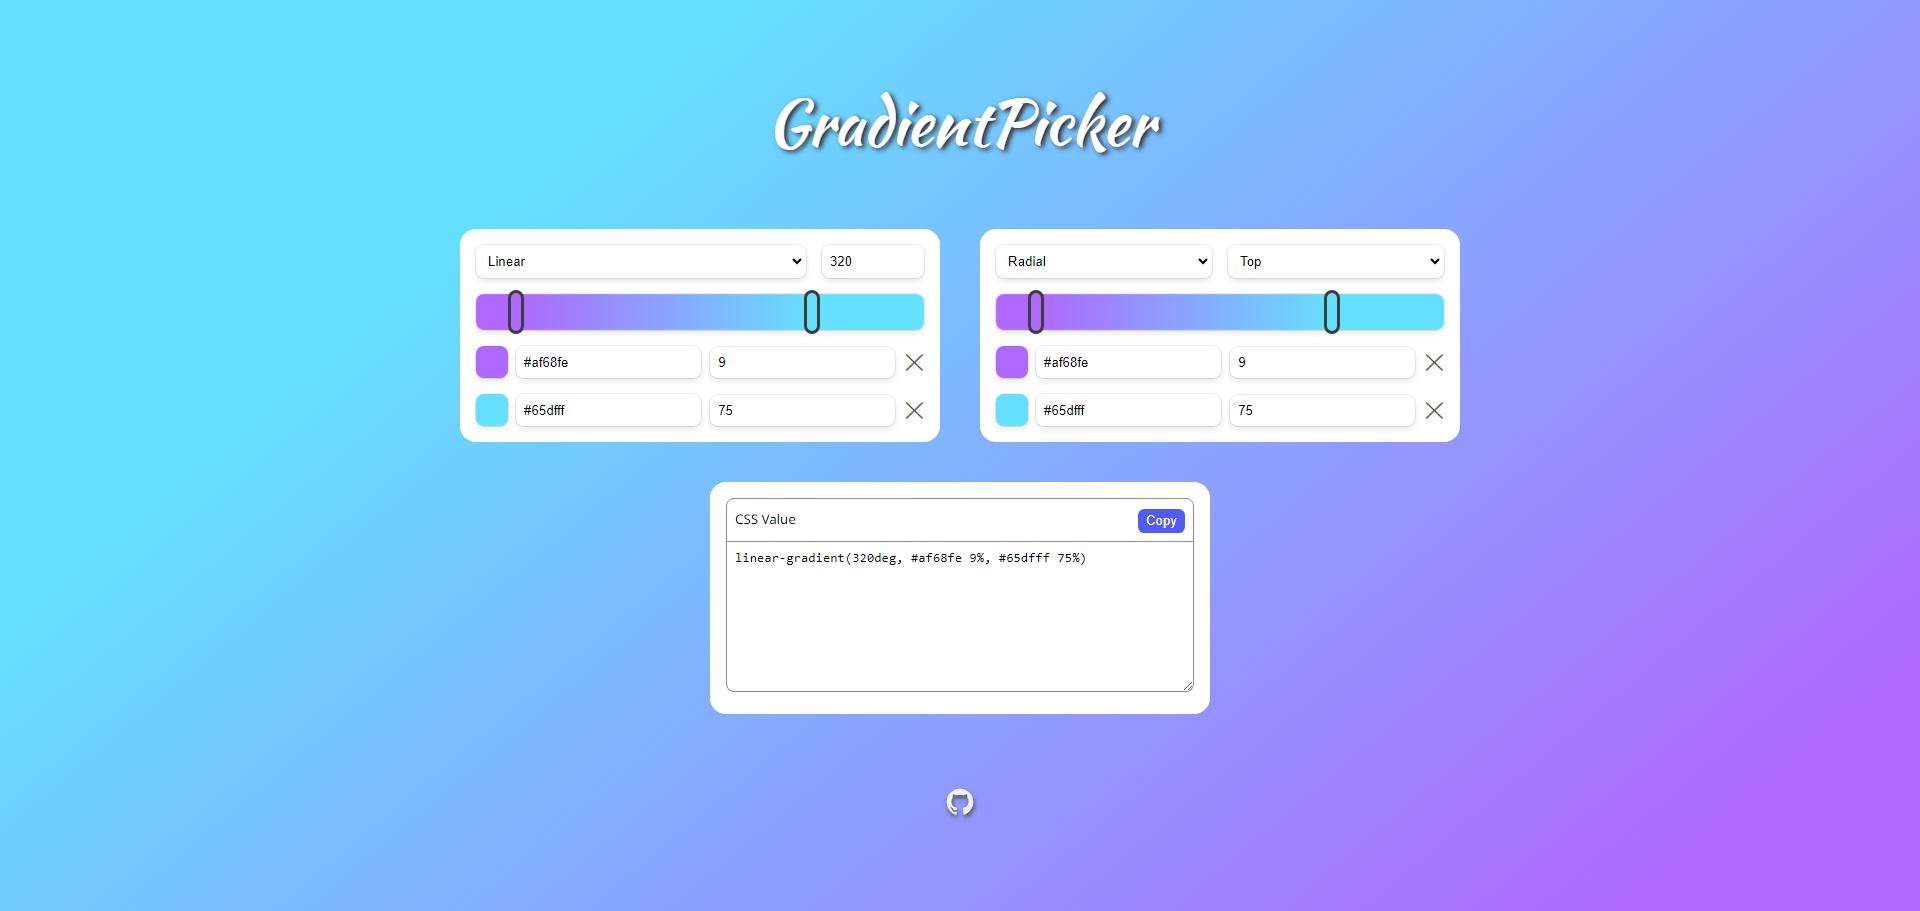
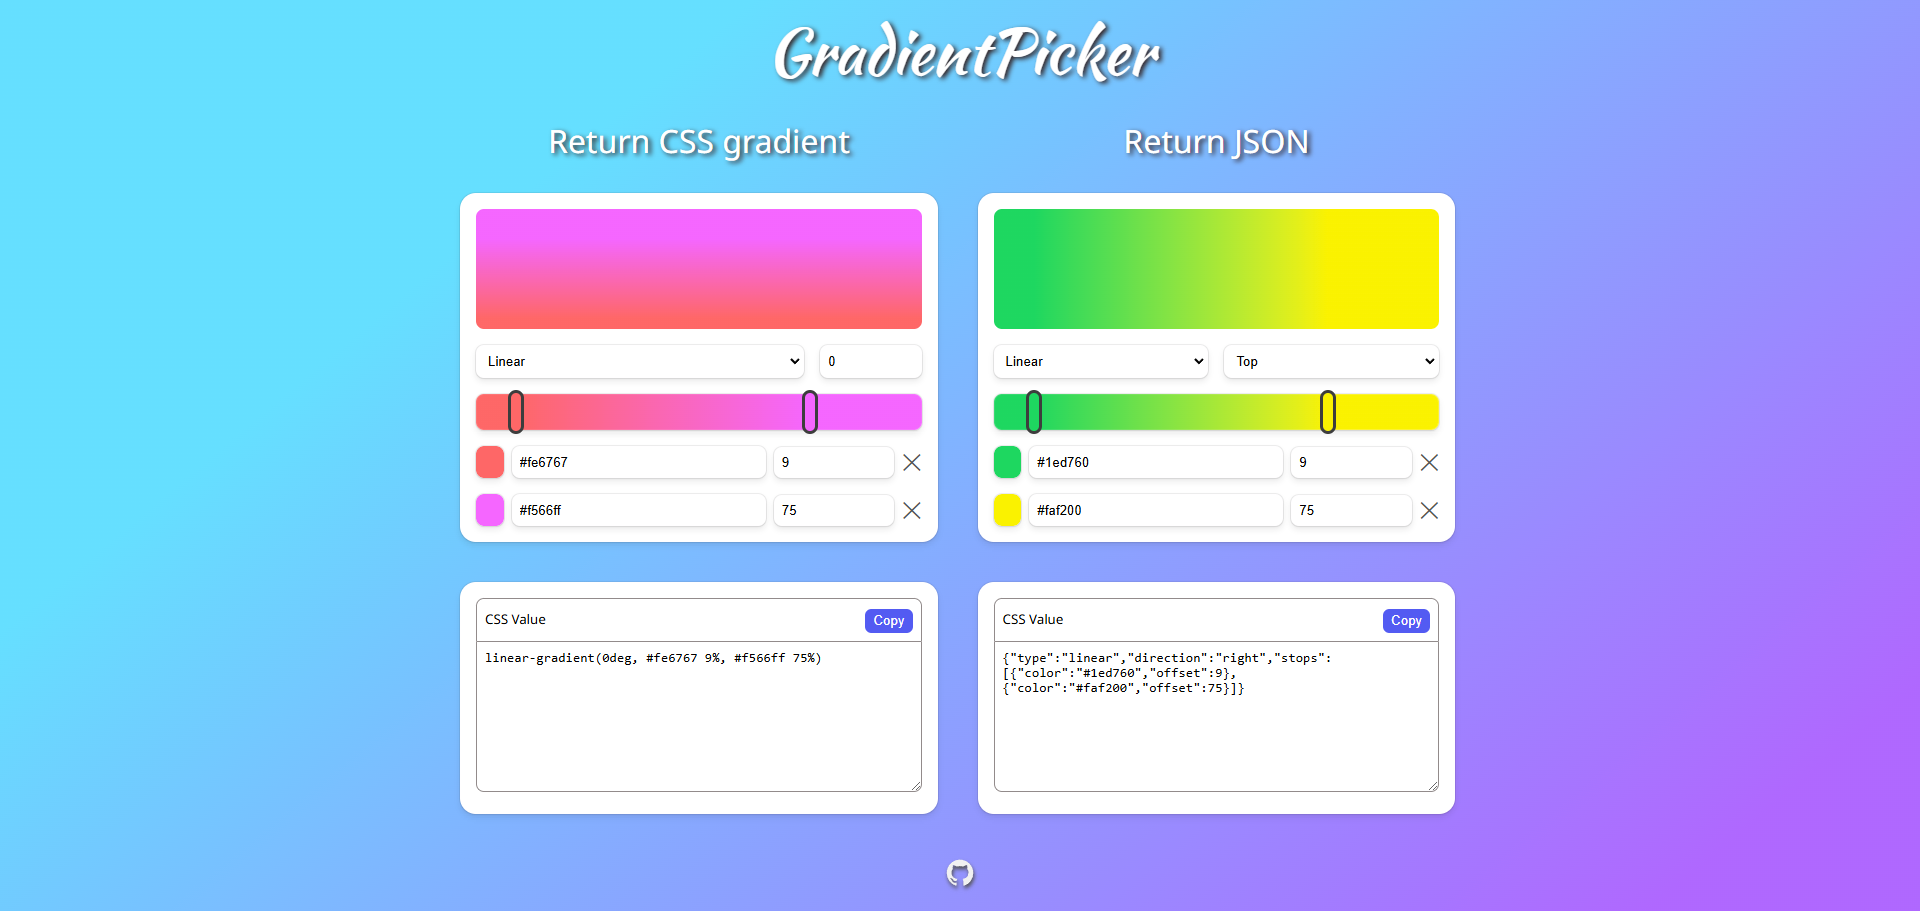
Update demo

Changed region(s): [[0.2188, 0.0307, 0.7812, 0.9221], [0.4688, 0.9528, 0.5312, 0.9835]]

diff --git a/public/main.css b/public/main.css
@@ -10,6 +10,7 @@
   font-weight: 400;
 
   background-color: #242424;
+  background-image: linear-gradient(320deg, #af68fe 9%, #65dfff 75%);
 
   font-synthesis: none;
   text-rendering: optimizeLegibility;
@@ -21,7 +22,6 @@
 .center-both {
   display: flex;
   justify-content: center;
-  align-items: center;
 }
 
 a {
@@ -42,6 +42,10 @@ body {
 
 .container {
   width: min(1000px, 100%);
+  display: flex; 
+  gap: 20px; 
+  flex-direction: column;
+  justify-content: space-between;
 }
 
 .container > div {
@@ -60,25 +64,24 @@ h1 {
   font-family: 'Kaushan Script', 'arial';
   color: white;
   line-height: 1.1;
-  margin-bottom: 2rem;
   text-align: center;
   text-shadow: 3px 2px 5px #311e1e;
 }
 
 a {
   color: rgb(241, 241, 241);
-  margin-top: 2rem;
   display: block;
   filter: drop-shadow(1px 3px 2px rgb(83, 83, 83));
 }
 a:hover {
   color: white;
 }
+
 #app {
   min-height: 100vh;
   width: 100%;
   margin: 0 auto;
-  padding: 2rem;
+  padding: 1rem;
   text-align: center;
 }
 
@@ -86,6 +89,11 @@ a:hover {
   background-color: white;
   padding: 1rem;
   border-radius: 1rem;
+  box-shadow: inset 0 0 0.5px 1px hsla(0, 0%, 100%, 0.1),
+  0 0 0 1px hsla(230, 13%, 9%, 0.075),
+  0 0.3px 0.4px hsla(230, 13%, 9%, 0.02),
+  0 0.9px 1.5px hsla(230, 13%, 9%, 0.045),
+  0 3.5px 6px hsla(230, 13%, 9%, 0.09);
 }
 
 @media screen and (max-width: 768px) {
@@ -140,5 +148,5 @@ textarea {
 h2 {
   font-size: 2em;
   color: white;
-  margin-bottom: 0;
+  text-shadow: 3px 2px 5px #311e1e;
 }

diff --git a/public/main.js b/public/main.js
@@ -5,8 +5,8 @@ import '../src/gradient-picker.scss'
 new GradientPicker({
     el: '#gradient-color-1',
     stops: [
-        { color: '#af68fe', offset: 9 },
-        { color: '#65dfff', offset: 75 },
+        { color: '#fe6767', offset: 9 },
+        { color: '#f566ff', offset: 75 },
     ],
     directionType: "percent",
     preview: true,
@@ -35,13 +35,22 @@ copyCssButton?.addEventListener('click', () => {
 
 
 const gradientColor1 = document.getElementById('gradient-color-1')
-gradientColor1?.addEventListener('change', (e) => {
-    const textarea = document.querySelector("#css")
-    textarea.value = e.target.value
-})
+gradientColor1?.addEventListener('change', e => updateGradientColor1(e))
 
 const gradientColor2 = document.getElementById('gradient-color-2')
-gradientColor2?.addEventListener('change', (e) => {
+gradientColor2?.addEventListener('change', e => updateGradientColor2(e))
+
+function updateGradientColor1(e) {
+    const textarea = document.querySelector("#css")
+    const el1 = e ? e.target : gradientColor1
+    textarea.value = el1?.value
+}
+
+function updateGradientColor2(e) {
     const textarea = document.querySelector("#css2")
-    textarea.value = e.target.value
-})
+    const el2 = e ? e.target : gradientColor2
+    textarea.value = el2?.value
+}
+
+updateGradientColor1()
+updateGradientColor2()

diff --git a/index.html b/index.html
@@ -13,7 +13,7 @@
   </head>
   <body class="center-both">
     <div id="app" class="center-both">
-      <div class="container" style="display: flex; gap: 40px; flex-direction: column;">
+      <div class="container">
         <h1 class="title">GradientPicker</h1>
         <div>
           <div style="display: flex; gap: 40px; flex-direction: column;">
